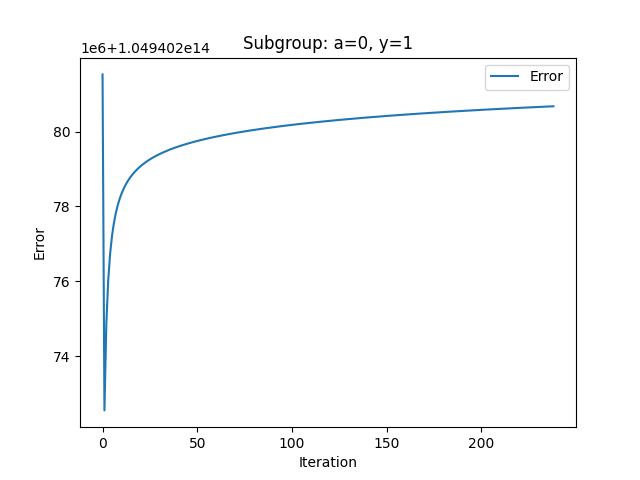
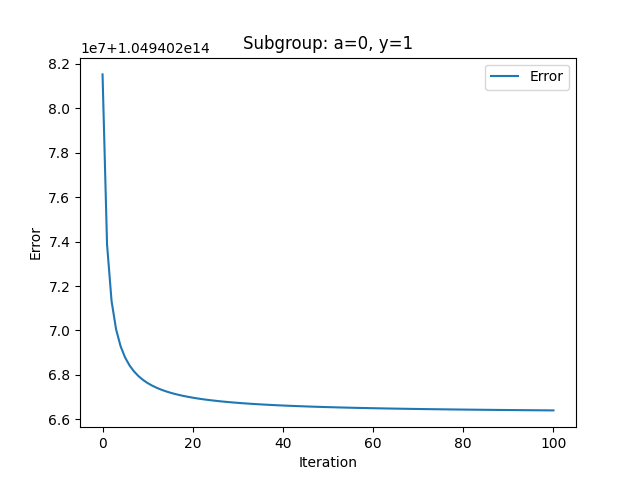
AGI Code

diff --git a/experiments/partial_feedback_gaussian.py b/experiments/partial_feedback_gaussian.py
@@ -101,6 +101,9 @@ def preprocess_real_data(df, target_col, categorical_cols, sensitive_column, sca
 
     return X, y, label_encoders
 
+# Mu, Sigma from data
+# X_new ~ N(mu, Sigma): X_new = S_ya*X_old + C_ya
+
 def naive_bayes_pipeline(df, target_col, dataset, from_NB = True, fair=False, protected_attribute = None):
     X, y, scaler = preprocess_data(df, target_col=target_col, dataset=dataset, from_NB=from_NB)
     # Because we dont care how f is trained, we dont care about stratified splits
@@ -283,7 +286,9 @@ def generate_examples(num_examples=1000, dim=100, var=1, means=None, a_1_prob=0.
             num_y_1_a_0 += 1
         else:
             num_y_0_a_0 += 1
-    covar = var*np.eye(dim) # Spherical gaussian for now
+    # Check if var is a list or number
+    if type(var) != list:
+        covar = var*np.eye(dim) # Spherical gaussian for now
     if means == None:
         mu_0_0 = [np.random.uniform(-1,1) for i in range(dim)]
         # Ensure separation between mu_0_0 and mu_1_0
@@ -303,10 +308,16 @@ def generate_examples(num_examples=1000, dim=100, var=1, means=None, a_1_prob=0.
         mu_1_0 = means[2]
         mu_1_1 = means[3]
     # Samples
-    samples_0_0 = np.random.multivariate_normal(mu_0_0, covar, num_y_0_a_0)
-    samples_0_1 = np.random.multivariate_normal(mu_0_1, covar, num_y_0_a_1)
-    samples_1_0 = np.random.multivariate_normal(mu_1_0, covar, num_y_1_a_0)
-    samples_1_1 = np.random.multivariate_normal(mu_1_1, covar, num_y_1_a_1)
+    if type(var) == list:
+        samples_0_0 = np.random.multivariate_normal(mu_0_0, var[0], num_y_0_a_0)
+        samples_0_1 = np.random.multivariate_normal(mu_0_1, var[1], num_y_0_a_1)
+        samples_1_0 = np.random.multivariate_normal(mu_1_0, var[2], num_y_1_a_0)
+        samples_1_1 = np.random.multivariate_normal(mu_1_1, var[3], num_y_1_a_1)
+    else:
+        samples_0_0 = np.random.multivariate_normal(mu_0_0, covar, num_y_0_a_0)
+        samples_0_1 = np.random.multivariate_normal(mu_0_1, covar, num_y_0_a_1)
+        samples_1_0 = np.random.multivariate_normal(mu_1_0, covar, num_y_1_a_0)
+        samples_1_1 = np.random.multivariate_normal(mu_1_1, covar, num_y_1_a_1)
     sensitive = np.asarray([0]*len(samples_0_0) + [1]*len(samples_0_1) + [0]*len(samples_1_0) + [1]*len(samples_1_1))
     label = np.asarray([0]*len(samples_0_0) + [0]*len(samples_0_1) + [1]*len(samples_1_0) + [1]*len(samples_1_1))
     return [mu_0_0, mu_0_1, mu_1_0, mu_1_1], np.vstack((samples_0_0, samples_0_1, samples_1_0, samples_1_1)), sensitive, label
@@ -656,14 +667,19 @@ def subgroup_manolis(data, pf_model, alpha, var=2, dim=5, means=None, dataset='g
     #print('Unique values in label:', unique_y)
     subgroups_params = {}
     lam = 1000
+    print(unique_a, unique_y)
     for a in unique_a:
         for y in unique_y:
-            rad = 500*((np.log(1/alpha[f'{y}{a}'])) / (alpha[f'{y}{a}']**2))
+            print(f'Processing subgroup a={a}, y={y}')
+            if dataset == 'gaussian':
+                rad = 500*((np.log(1/alpha[f'{y}{a}'])) / (alpha[f'{y}{a}']**2))
+            else:
+                rad = ((np.log(1/alpha[f'{y}{a}'])) / (alpha[f'{y}{a}']**2))
             # Filter data based on sensitive attribute and label
             # stack the columns of a identity matrix
             filtered_data = x_filtered[(z_filtered == a) & (y_filtered == y)]
             # Split data into two parts
-            num_samples = min(int(0.5*filtered_data.shape[0]), 10000) # 2 samples for only testing code
+            num_samples = min(int(0.5*filtered_data.shape[0]), 10000, 100) # 2 samples for only testing code
             filtered_data_split = filtered_data[:num_samples]
             filtered_data = filtered_data[num_samples:num_samples*2]
             print(f'Number of samples for a={a}, y={y}: {filtered_data.shape[0]}')
@@ -830,20 +846,41 @@ def main(args):
             'p_y_1': p_y_1
         }
 
-        #generate_real_data_and_model()
+        # Temporary fix
+        moments, x_all, z_all, y_all, _, z_test_all, y_test_all, emb_model = generate_real_data_and_model(dataset='adult')
+        priors = {
+            'p_a_1': np.mean(z_all),
+            'p_y_1_a_1': np.sum((y_all == 1) & (z_all == 1)) / np.sum(z_all == 1),
+            'p_y_1_a_0': np.sum((y_all == 1) & (z_all == 0)) / np.sum(z_all == 0),
+            'p_y_1': np.mean(y_all)
+        }
+        means = [moments[0][0], moments[1][0], moments[2][0], moments[3][0]]
+        var = [moments[0][1], moments[1][1], moments[2][1], moments[3][1]]
+        dim = x_all.shape[1]
 
-        means, x, z, y = generate_examples(dim=dim, var=var, num_examples=train_samples, 
-                                        a_1_prob=p_a_1, 
-                                        y_1_a_1_prob=p_y_1_a_1, 
-                                        y_1_a_0_prob=p_y_1_a_0)
-        _, x_test, z_test, y_test = generate_examples(dim=dim, var=var, num_examples=train_samples,
-                                                    means=means, a_1_prob=p_a_1,
-                                                        y_1_a_1_prob=p_y_1_a_1,
-                                                        y_1_a_0_prob=p_y_1_a_0)
-        _, x_val, z_val, y_val = generate_examples(dim=dim, var=var, num_examples=10000,
-                                                means=means, a_1_prob=p_a_1,
-                                                y_1_a_1_prob=p_y_1_a_1,
-                                                y_1_a_0_prob=p_y_1_a_0)
+
+        # means, x, z, y = generate_examples(dim=dim, var=var, num_examples=train_samples, 
+        #                                 a_1_prob=p_a_1, 
+        #                                 y_1_a_1_prob=p_y_1_a_1, 
+        #                                 y_1_a_0_prob=p_y_1_a_0)
+        # _, x_test, z_test, y_test = generate_examples(dim=dim, var=var, num_examples=train_samples,
+        #                                             means=means, a_1_prob=p_a_1,
+        #                                                 y_1_a_1_prob=p_y_1_a_1,
+        #                                                 y_1_a_0_prob=p_y_1_a_0)
+        # _, x_val, z_val, y_val = generate_examples(dim=dim, var=var, num_examples=10000,
+        #                                         means=means, a_1_prob=p_a_1,
+        #                                         y_1_a_1_prob=p_y_1_a_1,
+        #                                         y_1_a_0_prob=p_y_1_a_0)
+        _,x,z,y = generate_examples(dim=dim, var=var, num_examples=train_samples,
+                                          a_1_prob=priors['p_a_1'],
+                                          y_1_a_1_prob=priors['p_y_1_a_1'],
+                                          y_1_a_0_prob=priors['p_y_1_a_0'],
+                                          means=means)
+        _,x_test,z_test,y_test = generate_examples(dim=dim, var=var, num_examples=test_samples,
+                                                         a_1_prob=priors['p_a_1'],
+                                                         y_1_a_1_prob=priors['p_y_1_a_1'],
+                                                         y_1_a_0_prob=priors['p_y_1_a_0'],
+                                                         means=means)
         print(f'Data generated and priors set: {x.shape}, {x_test.shape}')
         # Convert to dataframe
         df = pd.DataFrame(x, columns=[f'x_{i}' for i in range(dim)])
@@ -1039,12 +1076,16 @@ def main(args):
                             q_min = min(q_01, q_11)
                             q_oracle = (q_01, q_11)
                             theta_oracle = subgroup_params['01'], subgroup_params['11']
-                        m = min(int((500*np.log(8/delta))/(q_min*eps**2)), 20000)
+                        if dataset == 'gaussian':
+                            m = min(int((500*np.log(8/delta))/(q_min*eps**2)), 20000)
+                        else:
+                            m = min(int((500*np.log(8/delta))/(q_min*eps**2)), 1000)
                         concat_samples_2 = 0
                         curr_sample_cost_2 = 0
                         N_0 = 0
                         N_1 = 0
                         N = copy.deepcopy(m)
+                        print(q_oracle, theta_oracle)
                         while(m > 0):
                             # index = rng.integers(0,len(df_a), 1)
                             # sampled_row = df_a.iloc[index]
